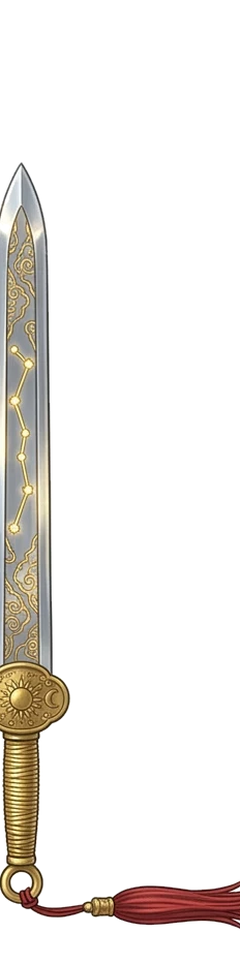
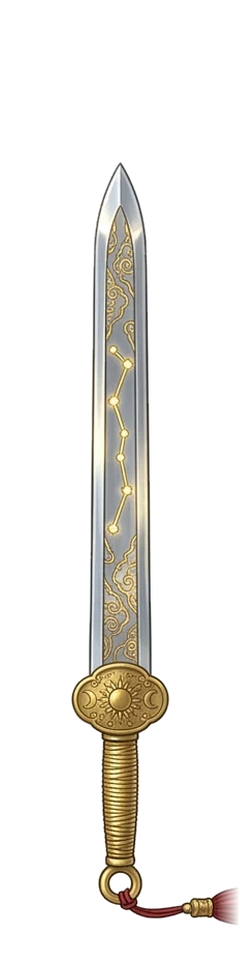
무기 7자루 쥐는 점 고침(술 달린 칼이 손잡이에서 벗어남 — 사인검·칠성검 다시 오림), 여우굴 1층 뒷벽 격자 막음·몬스터 구역 옮김, 손때 보류, feedback_1023
Claude-Session: https://claude.ai/code/session_019MAg98TwRdw68YbpZExPcG

diff --git a/tools/art/v3_recut_t9_swords.py b/tools/art/v3_recut_t9_swords.py
@@ -1,0 +1,37 @@
+# 2026-10-23: 사인검·칠성검 다시 오리기 — 술이 오른쪽으로 길어 칼 전체가 왼쪽으로 치우쳐 오려졌음
+# (손잡이 가운데 x≈22, 규격은 120 → 손이 손잡이를 안 쥔 것처럼 보임, 칠성검은 칼날 왼쪽이 잘림)
+# 규격: 240×960, 칼날·손잡이 축 x=120, 쥐는 점 (120,800). 세로 배율·위치는 지금 그림(칼끝·고리 아래끝)에 맞춤.
+# 술은 캔버스 오른쪽 끝에서 잘리므로 끝 24px를 부드럽게 흐리게 함.
+import sys; sys.path.insert(0,'/home/claude/seolhwa-rpg/tools/art')
+from cut2 import cutout
+from PIL import Image
+import numpy as np
+S='/home/claude/seolhwa-rpg/assets/source/v3/weapons_tier9_sheet.webp'
+D='/home/claude/seolhwa-rpg/assets/weapons/'
+sheet=Image.open(S).convert('RGB')
+
+def axis_ends(a, cx):
+    """축 기둥(cx±3)에서 칼끝 y와 고리 아래끝 y"""
+    col=a[:, max(0,int(cx)-3):int(cx)+4].any(1); ys=np.nonzero(col)[0]; return ys.min(), ys.max()
+
+def blade_cx(a, y0, y1):
+    cs=[]
+    for y in range(y0,y1,8):
+        xs=np.nonzero(a[y])[0]
+        if len(xs): cs.append((xs.min()+xs.max())/2)
+    return float(np.median(cs))
+
+for name,(x0,x1) in {'sain':(250,600),'seven_star':(960,1330)}.items():
+    old=np.array(Image.open(D+name+'.png'))[...,3]>20
+    ocx=blade_cx(old,300,600); ot,ob=axis_ends(old,ocx)
+    c=cutout(sheet,(x0,0,x1,sheet.height)); A=np.array(c); a=A[...,3]>20
+    ys=np.nonzero(a.any(1))[0]; h=ys.max()-ys.min()
+    cx=blade_cx(a, ys.min()+int(h*0.25), ys.min()+int(h*0.6)); t,b=axis_ends(a,cx)
+    s=(ob-ot)/(b-t)
+    c2=c.resize((round(c.width*s),round(c.height*s)),Image.LANCZOS)
+    can=Image.new('RGBA',(240,960)); can.alpha_composite(c2,(round(120-cx*s), round(ot-t*s)))
+    C=np.array(can).astype(float)
+    C[:,216:,3]*=np.linspace(1,0,24)[None,:]   # 잘리는 술 끝을 부드럽게
+    out=Image.fromarray(C.astype(np.uint8)); out.save(D+name+'.png')
+    na=np.array(out)[...,3]>20; ncx=blade_cx(na,300,600); hc=blade_cx(na,740,860)
+    print(name,'scale',round(s,3),'blade cx',ncx,'handle cx',hc,'tip',axis_ends(na,ncx)[0],'old tip',ot,'left col alpha rows',int(na[:,0].sum()))

diff --git a/tools/art/v3_regrip_weapons.py b/tools/art/v3_regrip_weapons.py
@@ -1,0 +1,24 @@
+# 2026-10-23: 술 달린 무기가 손잡이가 아니라 "그림 전체 가운데"로 맞춰져 쥐는 점(120,800)에서 벗어남 → 손잡이 축을 x=120으로 옮김
+# 손잡이 가운데 = 750~800줄에서 칼날 축과 가장 가까운 연속 구간의 가운데. 오른쪽으로 밀려 잘리는 술 끝은 24px 흐리게.
+from PIL import Image
+import numpy as np, json, sys
+D='/home/claude/seolhwa-rpg/'
+W=json.load(open(D+'data/weapons.json'))['weapons']
+W=dict(W) if isinstance(W,dict) else {x['id']:x for x in W}
+def handle_cx(a):
+    ys=np.nonzero(a.any(1))[0]; t=ys.min()
+    bc=np.median([(np.nonzero(a[y])[0].min()+np.nonzero(a[y])[0].max())/2 for y in range(t+60,700,8) if a[y].any()])
+    hs=[]
+    for y in range(750,800,5):
+        xs=np.nonzero(a[y])[0]; runs=np.split(xs,np.where(np.diff(xs)>1)[0]+1)
+        r=min(runs,key=lambda r:abs((r[0]+r[-1])/2-bc)); hs.append((r[0]+r[-1])/2)
+    return float(np.median(hs))
+for n in sys.argv[1:]:
+    p=D+W[n]['image']; im=Image.open(p).convert('RGBA'); a=np.array(im)[...,3]>20
+    dx=round(120-handle_cx(a))
+    can=Image.new('RGBA',im.size); can.alpha_composite(im,(dx,0))
+    C=np.array(can).astype(float)
+    if dx>0: C[:,216:,3]*=np.linspace(1,0,24)[None,:]
+    if dx<0: C[:,:24,3]*=np.linspace(0,1,24)[None,:]
+    Image.fromarray(C.astype(np.uint8)).save(p)
+    print(n,'dx',dx,'→ handle',round(handle_cx(np.array(Image.open(p))[...,3]>20),1))

diff --git a/tools/art/grid_fine_polys.py b/tools/art/grid_fine_polys.py
@@ -103,6 +103,8 @@ MAPS['dungeon_fox_1']['cut']+=[[(88,258),(142,258),(142,345),(88,345)],[(88,335)
   [(530,245),(585,245),(585,335),(530,335)],[(735,235),(785,235),(785,300),(735,300)],[(865,315),(935,315),(935,370),(865,370)],
   [(770,405),(815,405),(815,448),(770,448)],[(630,180),(800,180),(800,262),(630,262)],[(695,255),(735,255),(735,295),(695,295)],
   [(1252,298),(1342,298),(1342,352),(1252,352)]]
+MAPS['dungeon_fox_1']['cut']+=[[(130,200),(430,200),(430,296),(400,300),(372,312),(330,318),(300,326),(250,328),(200,328),(160,330),(130,334)],
+  [(1185,236),(1365,236),(1365,300),(1300,298),(1240,296),(1200,300),(1185,304)]]   # 10-23 뒷벽(여우가 벽 위를 걸음) — grid_cut_fox1_1023.py와 같음
 MAPS['dungeon_raccoon_1']['add']+=[[(670,440),(770,440),(760,600),(680,600)],[(960,205),(1040,205),(1045,280),(1010,300),(990,270)],[(840,270),(900,225),(960,205),(990,270),(920,305),(870,305)]]
 MAPS['dungeon_raccoon_1']['add']+=[[(1000,282),(1060,262),(1150,282),(1250,298),(1252,345),(1180,362),(1100,356),(1050,340)]]   # 10-22 보물 방도 걸어 들어가게(물건만 막음)
 MAPS['dungeon_raccoon_1']['force']=[[(866,258),(944,258),(934,322),(878,322)],[(818,292),(890,292),(890,334),(818,334)]]   # 10-22 가운데 방 → 우두머리 굴 입구 바로 이어짐

diff --git a/tools/art/grid_cut_fox1_1023.py b/tools/art/grid_cut_fox1_1023.py
@@ -1,0 +1,19 @@
+# 2026-10-23 강콩: 여우굴에서 여우가 바닥이 아닌 곳을 걸음 → 왼쪽 위 방·오른쪽 석관 방의 "뒷벽"이 걸을 수 있게 잡혀 있었음
+# (10-22 석관 방 add 다각형이 벽까지 넓었음). 지금 격자에서 뒷벽만 막음(다른 칸은 그대로).
+import json
+from matplotlib.path import Path
+P='/home/claude/seolhwa-rpg/data/maps/dungeon_fox_1.json'
+m=json.load(open(P)); cs=m['cellSize']; rows=[list(r) for r in m['blocked']]
+CUTS=[[(130,200),(430,200),(430,296),(400,300),(372,312),(330,318),(300,326),(250,328),(200,328),(160,330),(130,334)],   # 왼쪽 위 방 뒷벽·석판 더미
+      [(1185,236),(1365,236),(1365,300),(1300,298),(1240,296),(1200,300),(1185,304)]]                                    # 오른쪽 석관 방 뒷벽(뿌리)
+n=0
+for poly in CUTS:
+    pa=Path(poly)
+    for r in range(len(rows)):
+        for c in range(len(rows[0])):
+            if rows[r][c]!='#' and pa.contains_point((c*cs+cs/2, r*cs+cs/2)): rows[r][c]='#'; n+=1
+txt=open(P).read(); pos=txt.index('"blocked"')
+for old,new in zip(m['blocked'],[''.join(r) for r in rows]):
+    i=txt.index('"'+old+'"',pos); txt=txt[:i]+'"'+new+'"'+txt[i+len(old)+2:]; pos=i+len(new)+2
+open(P,'w').write(txt)
+print('막은 칸',n)

diff --git a/docs/spec/feedback_1023.md b/docs/spec/feedback_1023.md
@@ -1,0 +1,45 @@
+# 2026-10-23 강콩 피드백 (새벽 시험)
+
+## 1. 칠성검 손잡이를 안 쥠 → 무기 7자루 그림 고침 (기획 쪽, 반영됨)
+
+- 원인: **술(끈 장식)이 오른쪽으로 길게 달린 무기**를 오릴 때 "그림 전체의 가운데"를 x=120에 맞춤 → 손잡이가 쥐는 점(120,800)에서 왼쪽으로 벗어남. 칠성검·사인검은 손잡이 가운데가 x≈22(−98px), 칠성검은 칼날 왼쪽도 잘려 있었음.
+- 전체 20자루를 손잡이 기준으로 재어 봄:
+
+| 무기 | 손잡이 가운데(전) | 고친 방법 |
+|---|---|---|
+| 사인검 `sain` | 24 | 원본 시트에서 다시 오림(`tools/art/v3_recut_t9_swords.py`) |
+| 칠성검 `seven_star` | 21 (칼날 왼쪽 잘림) | 〃 |
+| 여우불 검 `fox_fire` | 60 | 손잡이 축을 120으로 옮김(`tools/art/v3_regrip_weapons.py`) |
+| 청풍검 `clear_wind` | 79 | 〃 |
+| 철 환두대도 `iron_ring_great` | 84 | 〃 |
+| 흑견 송곳니칼 `black_fang` | 129 | 〃 (작게) |
+| 산저 참마검 `boar_cleaver` | 128.5 | 〃 (작게) |
+
+- 나머지 13자루는 손잡이 가운데 119~122 — 그대로.
+- 캔버스(240×960)·쥐는 점(120,800)·칼끝 높이(`tipFromGrip`)는 그대로라 **코드는 고칠 것 없음**. 캔버스 밖으로 밀린 술 끝은 24px 흐리게 잘림(62px 캐릭터에서 술 길이 약 10px).
+
+## 2. 여우굴: 여우가 바닥이 아닌 곳을 걸음 → 격자 고침 (기획 쪽, 반영됨)
+
+- 원인: **왼쪽 위 방과 오른쪽 석관 방의 뒷벽**(동굴 안쪽 벽면·뿌리)이 걸을 수 있게 잡혀 있었음. 오른쪽은 10-22에 기획 쪽이 "석관 방도 들어가게" 넓힌 다각형이 벽까지 덮은 실수.
+- 고침: 두 뒷벽 2,244칸을 막음(`tools/art/grid_cut_fox1_1023.py`, 같은 다각형을 `grid_fine_polys.py`에도 적어 다시 만들어도 유지). 몬스터 구역 "방 4"가 20%만 남아 `mapcheck --fix`로 (280,296,120×88)로 옮김.
+- 19맵 전부 격자를 그림 위에 겹쳐 눈으로 다시 봄 — 뒷벽을 걷는 곳은 여우굴 1층 두 방뿐이었음.
+- `node tools/test/mapcheck.mjs` 모든 맵 좋음.
+
+## 3. 여우굴 → 구미호의 방으로 못 들어감 (원인 확인 필요 → Claude Code)
+
+- 저장소 데이터로는 들어갈 수 있음: 게임의 `isStandable`·`footBox`로 1px마다 칠해 보니 입구 사각형 안에 갈 수 있는 자리 2,037곳, 모든 맵의 입구·도착 자리도 이어짐.
+- **가장 의심되는 원인: 이 기기에 남은 옛 격자 편집(G)**. `loadMap()`은 `localStorage`의 `seolhwa-rpg:grid-edit:<맵>`이 크기만 같으면 저장소 격자 대신 씀 → 10-19 초안 때 G로 고친 내용이 남아 있으면 10-20·10-22에 새로 만든 정밀 격자가 **그 기기에서는 적용되지 않음**. "고쳤다는데 또 그렇다"와 맞음. (강콩이 여우굴에서 G를 쓴 적이 있는지 확인 필요)
+- 그래서 격자 편집을 **저장소 격자와 짝지어** 저장하게 바꿈(아래 Claude Code 할 일 1).
+
+## 4. 손때 보류 (강콩)
+
+- "조금 식상하다" → 손때(무기 숙련) 보류. 대신 나중에 **수련장**, **특정 나무를 만 번 휘두르면 근력이 오름** 같은 것 — 숨은 장치(`secrets.md` 3)로 둠. 자세히는 `mastery_fusion.md`.
+
+## Claude Code 할 일
+
+1. **격자 편집을 저장소 격자와 짝짓기**: 저장할 때 `{ base: <저장소 blocked의 짧은 해시>, rows }`. 불러올 때 `base`가 지금 저장소 격자와 다르거나 옛 모양(배열만)이면 **쓰지 않고 지움**, 화면에 한 번 "이 기기의 옛 격자 편집을 지웠습니다(새 맵 격자 사용)".
+2. **관리자 창 설정 탭**: "이 기기 격자 편집" 줄 — 편집이 남은 맵 이름과 「모두 지우기」 단추.
+3. **`tools/test/mapcheck.mjs` 입구 검사를 정확하게**: 지금은 입구 둘레 ±8px 안의 갈 수 있는 자리도 "들어감"으로 셈 → 입구 사각형 **안**에 발이 설 수 있는 자리가 있는지로(기획 쪽 확인 스크립트와 같은 방식). 도착 자리(arrive)가 다른 입구 사각형 안이 아닌지도.
+4. **몬스터가 바닥 위에 있는지 시험**: `chaos.mjs`(또는 `monsterwalls.mjs`)에서 프레임마다 모든 몬스터 발 상자(`bodyBox`)가 `isStandable`인지 — 여우굴 1층·구미호의 방 각각 2분, 0건이어야 함. 여우불(날아가는 것)은 빼고.
+5. **무기 쥐는 점 시험**(브라우저 없이): `data/weapons.json` 모든 무기 그림에서 750~800줄 손잡이 가운데가 120±4인지, 왼쪽·오른쪽 끝 열에 칼날이 닿지 않는지. 새 무기 그림이 와도 이 시험으로 걸러짐.
+6. 끝나면 이 파일에 "반영됨", CLAUDE.md 지금 단계에 한 줄, 커밋·푸시.

diff --git a/CLAUDE.md b/CLAUDE.md
@@ -12,7 +12,7 @@
 ## 게임 개요
 
 - 바람의나라풍 성장형 RPG. 혼자 하는 버전을 먼저 완성하고, 재미가 확인되면 서버를 붙여 MMO로 확장.
-- 전통 설화풍 세계관, 직업 1개, 사냥 → 드랍 → 성장(레벨·무기 강화·손때) 반복.
+- 전통 설화풍 세계관, 직업 1개, 사냥 → 드랍 → 성장(레벨·무기 강화·숙련 — 손때는 2026-10-23 보류) 반복.
 - 2.5D 고품질 2D 그림, 3/4 탑다운 시점(사각 격자). 3D 사용 안 함. **그림체: 2026-10-12 새 그림체로 전환**(3D 렌더 느낌의 부드러운 입체감·얇은 선·밝은 색, 그림은 여전히 2D). 옛 수채화·먹선 그림은 기획 쪽이 새 그림으로 차례로 교체함 — 파일 이름·규격은 그대로라 코드는 거의 안 바뀜.
 - 아이폰 중심, **가로 화면 고정**. PC 브라우저에서도 실행.
 
@@ -67,6 +67,7 @@ docs/          문서 사본
 | [docs/spec/mastery_fusion.md](docs/spec/mastery_fusion.md) | **숙련(무예·무기·능력치)과 무예 합성(2개씩, 실패 있음) 방향 + 합성 제안 v1(성질 섞기 + 무작위, 2026-10-22 결정, 강콩 확인 전 — 코드 아직 안 함)** |
 | [docs/spec/items_fix_1022.md](docs/spec/items_fix_1022.md) | **아이템 고치기(2026-10-22)**: 전리품 사 주는 곳, 청동 환두도 650, 회복약 % (주먹밥 15%·탕약 50%), 새 약·술 6(인삼·녹용·탁주·약주·송순주·산삼), 기다림 묶음·술 버프 |
 | [docs/spec/secrets.md](docs/spec/secrets.md) | **숨은 장치 목록**(게임 안에서 안내 안 함): `secret: true` 규칙, 산삼, 비전 무예 |
+| [docs/spec/feedback_1023.md](docs/spec/feedback_1023.md) | **2026-10-23**: 무기 7자루 쥐는 점(술 달린 칼이 손잡이에서 벗어남, 그림 고침), 여우굴 뒷벽 격자, 구미호의 방 못 들어감(이 기기 옛 격자 편집 의심 → 저장소 격자와 짝짓기), 손때 보류 |
 | [docs/spec/feedback_1022.md](docs/spec/feedback_1022.md) | **2026-10-22**: 무예 데미지 배율 올림·자동 시험, 못 가는 방(너구리·여우 격자)·맵 검사, 벽 위 몬스터(막힘 상자·시뮬 시험), 무예 효과 그림(Flow 136~138), 무예창 트리, 공격 단추 68·무예 칸 위로, **데미지·체력 ×10 + 방어력 비율식** |
 | [docs/spec/feedback_1021.md](docs/spec/feedback_1021.md) | **2026-10-21**: 공격 단추 줄이고 무예 칸 8개(네모), 마을 앞뒤 가림 조각 v4(파일만 바뀜), 얻은 경험치 표시, 패시브 아이콘 프롬프트, 성별·직업 방향(판단 대기) |
 | [docs/spec/feedback_1020.md](docs/spec/feedback_1020.md) | **2026-10-20 강콩 피드백 11**: 정밀 격자(칸 4px, 19맵), 몬스터 걷기(그림 방향·벽 검사), 관리자 창 스크롤·1개씩, 무예 연출 공통 층, 숨 고르기, 단추 터치, 패시브 9개, 타격 효과, 버리기, 몬스터 수 +1 |
@@ -131,6 +132,7 @@ docs/          문서 사본
 - [x] **무예 효과 그림 12장 붙이기**(`feedback_1022.md` 9 "반영됨"): 무예 13개·평타 회심, 도형 연출과 겹쳐 그림 — 강콩 아이폰 확인 필요
 - [x] **회복 "+1" 줄줄이·변수 전면 재검토**(`feedback_1022.md` 10 "반영됨"): 회복 0.5초마다 모아 머리 위에, 맵 옮긴 뒤 남던 버프·여우불 그림판 고침, 개발용 감시·2분 무작위 시험(`tools/test/chaos.mjs`) — 강콩 아이폰 확인 필요
 - [x] **아이템 고치기**(`docs/spec/items_fix_1022.md` "반영됨"): 전리품 사 주는 곳·값 순서·회복약 %·새 약·술 6·기다림 묶음·산삼(`secrets.md` 1) — 아이콘(Flow 139)은 오기 전 `iconText`, 강콩 아이폰 확인 필요
+- [ ] **2026-10-23 피드백**(`docs/spec/feedback_1023.md`): 무기 그림·여우굴 격자는 기획 쪽이 고침 — Claude Code는 격자 편집 짝짓기·관리자 지우기·입구 검사 정확히·몬스터 바닥 시험·무기 쥐는 점 시험
 
 ## 작업 규칙
 

diff --git a/docs/spec/mastery_fusion.md b/docs/spec/mastery_fusion.md
@@ -61,3 +61,9 @@
 - 무예 합성 재료는 무예 숙련 5등급 이상(합성 제안 8).
 - 무기 손때는 칼 한 자루마다 따로. 새 칼로 바꾸면 처음부터 — 대신 손때 10 칼은 팔 때 값 ×2(정 들인 칼). 이 부분은 강콩 판단 필요.
 - 등급이 오르면 머리 위에 짧은 글자("검풍 숙련 3")와 작은 소리. 무예창·정보창에 등급·다음 등급까지 막대.
+
+## 손때 보류 (2026-10-23 강콩)
+
+- 무기 숙련(손때)은 **보류** — "조금 식상하다". 위 숙련 표의 "무기(손때)" 줄과 "손때 10 칼 값 ×2"는 쓰지 않음(기각 아님, 보류).
+- 대신 나중에: **수련장**, **특정 나무를 만 번 휘두르면 근력이 오름** 같은 "해 본 사람만 아는" 성장 → `secrets.md` 3에 후보로 적음.
+- 숙련 제안 v1의 나머지(무예·체력·힘·방어·걸음)는 강콩 확인 전.

diff --git a/docs/spec/secrets.md b/docs/spec/secrets.md
@@ -16,3 +16,4 @@
 |---|---|---|---|---|---|
 | 1 | 산삼 | 체력 모두 + 최대 체력 +40 영구(10번까지) | 구간 6+ 일반 몬스터 0.3%, 우두머리 3% | 약방 영감: "뒷산 깊은 데서 백 년 묵은 뿌리를 봤다는 사람이 있었지." | 반영됨(2026-10-22, `items_fix_1022.md` "반영됨") |
 | 2 | 비전 무예(합성) | 특정 두 무예를 특정 조건에서 합성하면 이름 있는 무예 | `mastery_fusion.md` "비전" | 강콩이 정함 | 합성 설계 뒤 |
+| 3 | 수련 나무·수련장(후보) | 특정 나무를 만 번 휘두르면 근력(힘) 영구 상승 등 | 강콩 아이디어(10-23), 설계 전 | 강콩이 정함 | 후보 |
